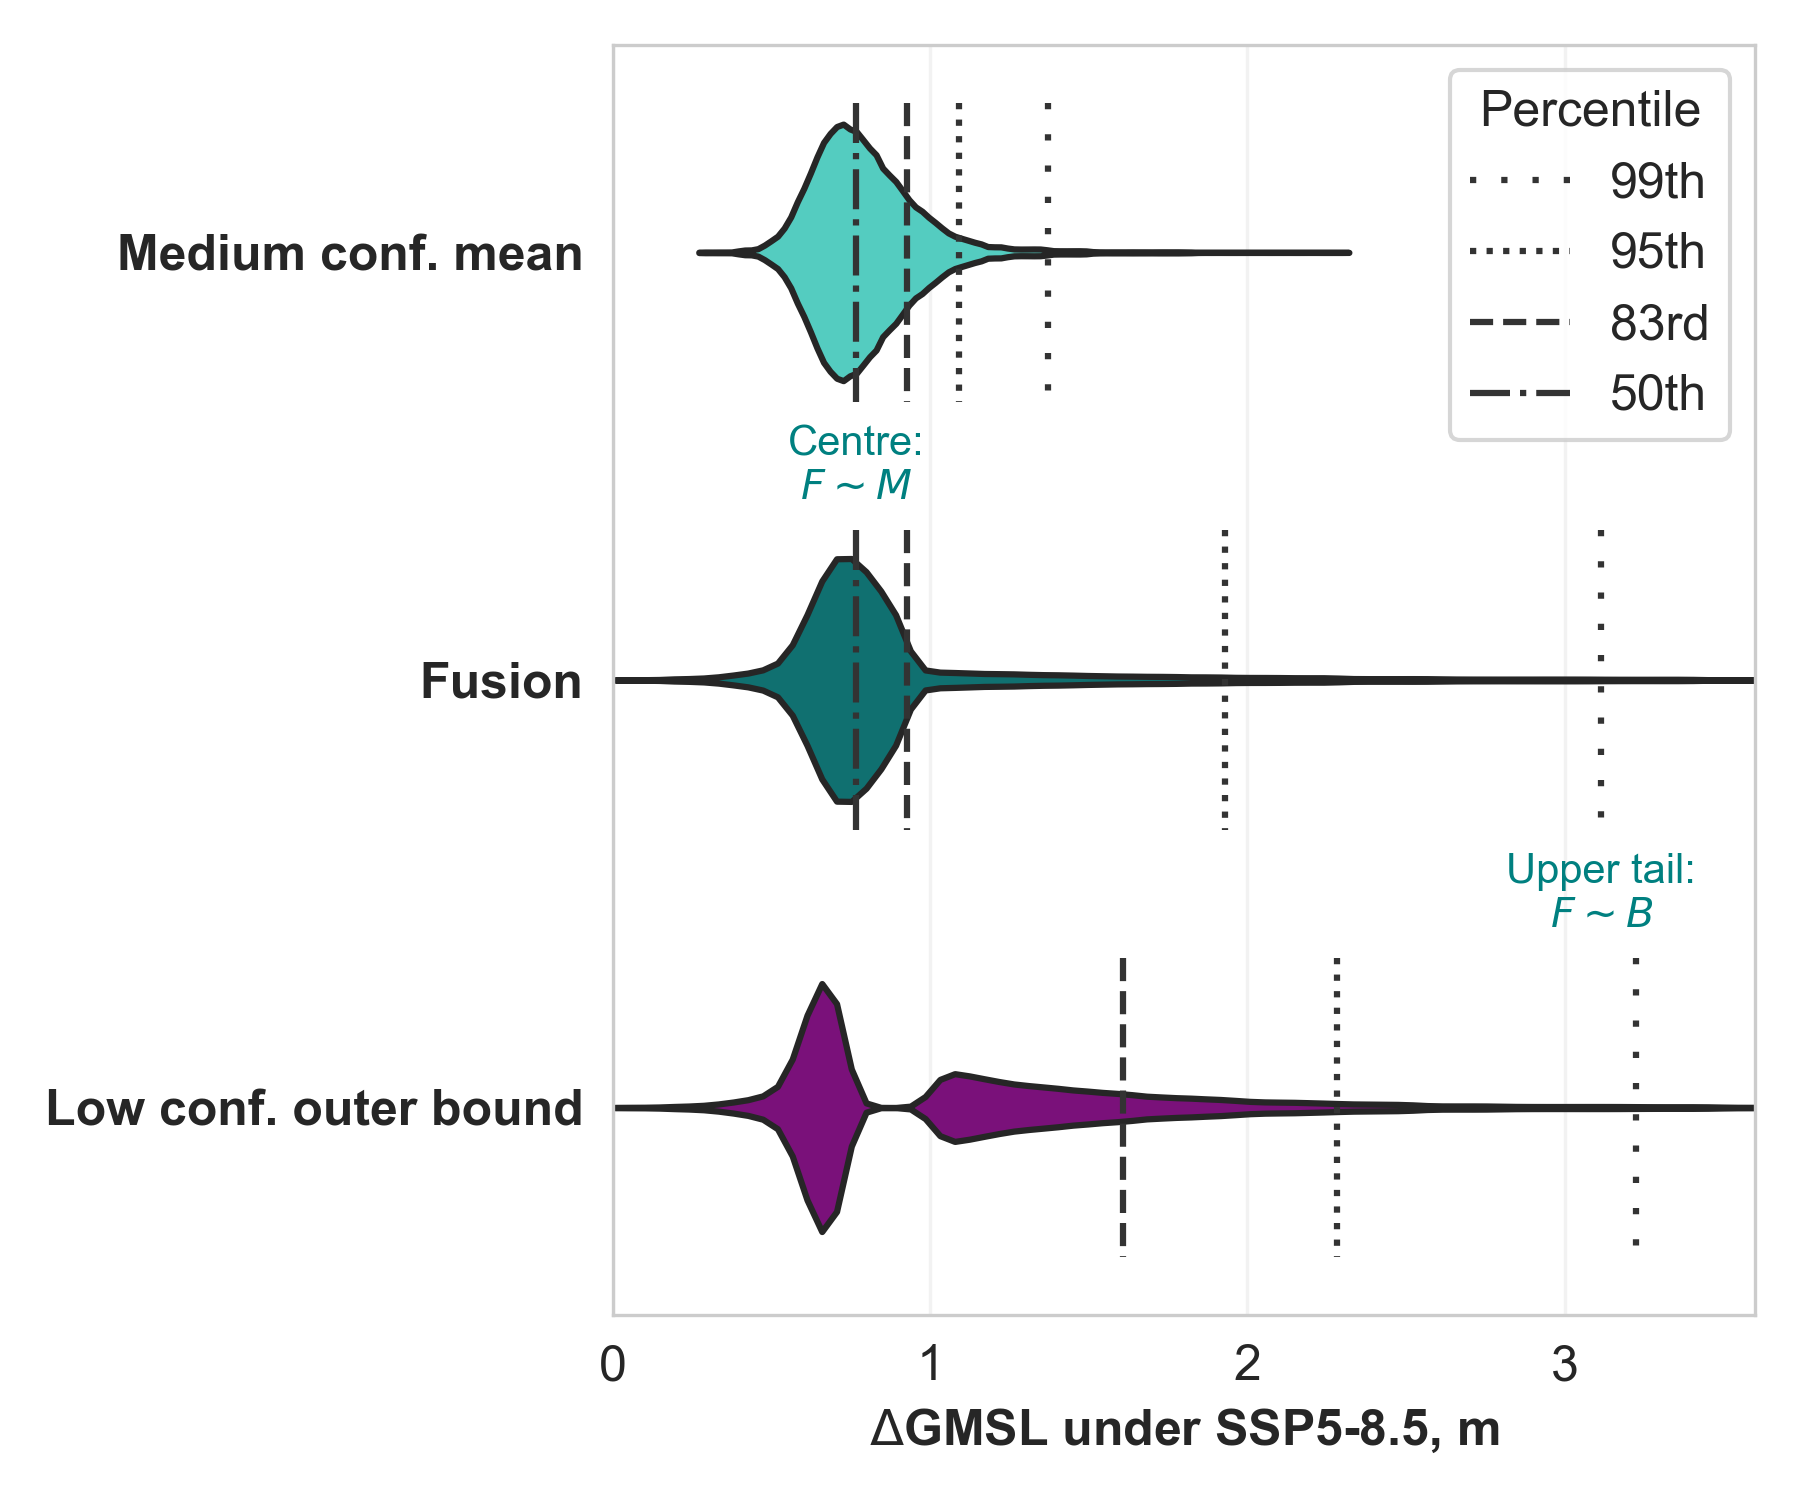
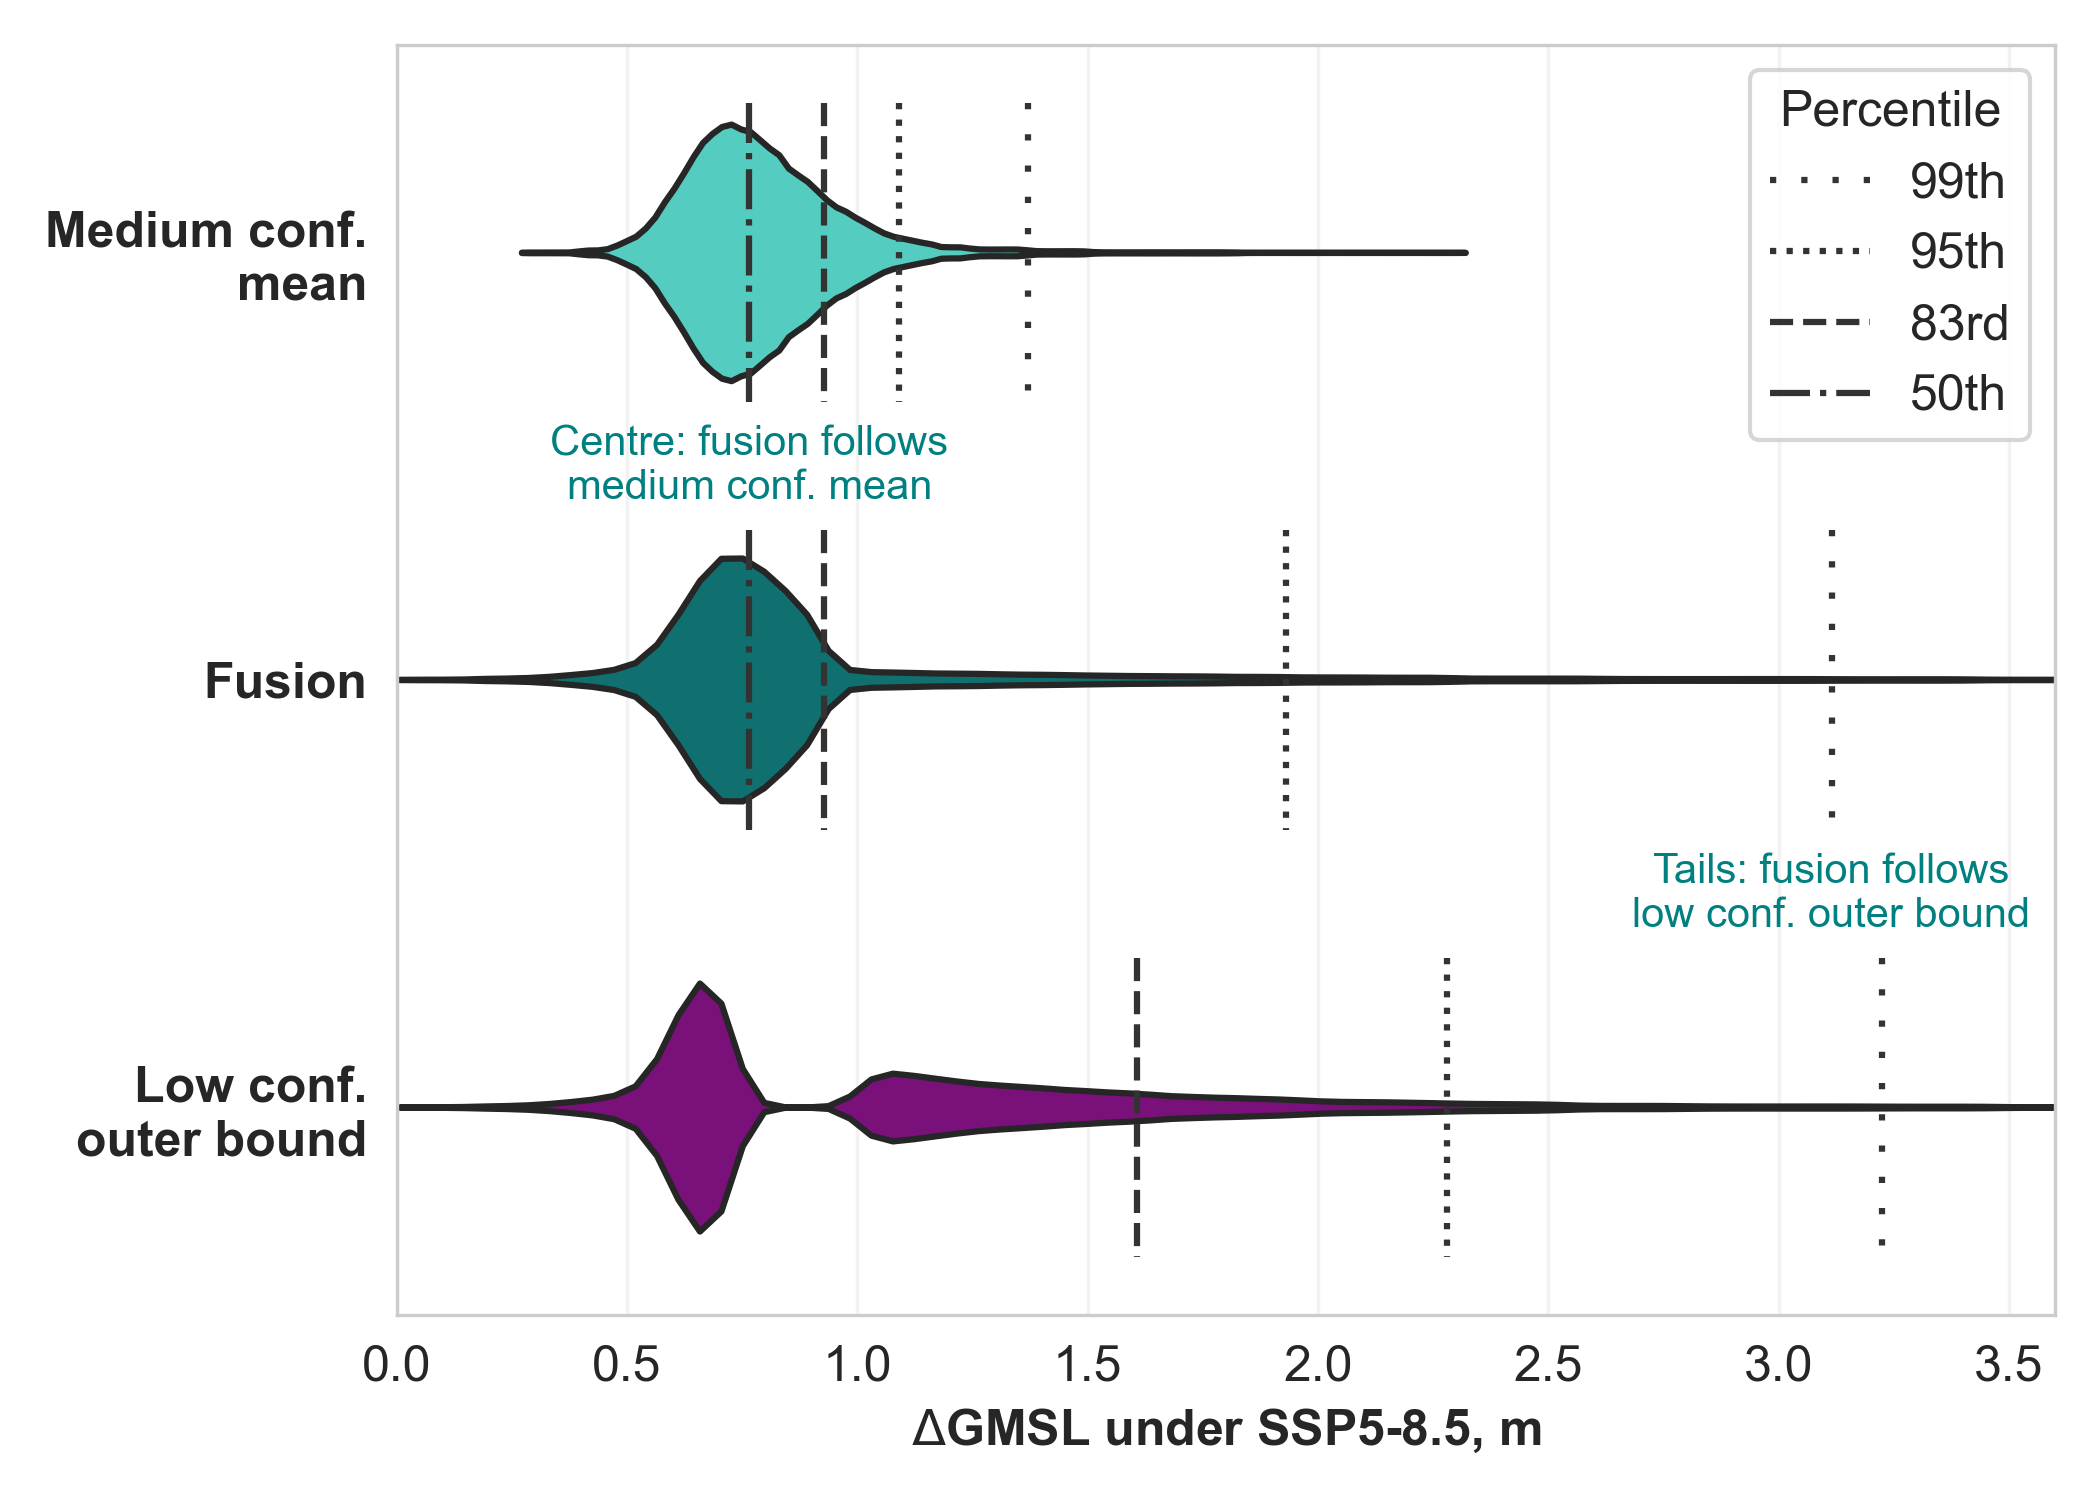
d23a.py plot_sl_violinplot(): modify annotations, labels, and figsize.

diff --git a/d23a.py b/d23a.py
@@ -578,7 +578,7 @@ def plot_sl_violinplot(workflows=('wf_2e', 'fusion_1e+2e', 'outer'),
     """
     # Create figure if ax is None
     if not ax:
-        fig, ax = plt.subplots(1, 1, figsize=(6, 5), constrained_layout=True)
+        fig, ax = plt.subplots(1, 1, figsize=(7, 5), constrained_layout=True)
     # Loop over workflows, sample marginal, and save to DataFrame
     samples_df = pd.DataFrame()  # DataFrame to hold samples from different marginals
     for workflow in workflows:
@@ -601,15 +601,15 @@ def plot_sl_violinplot(workflows=('wf_2e', 'fusion_1e+2e', 'outer'),
     if annotations:
         for p, y, text in zip(
                 [50, 99], [0.5, 1.5],
-                [f'Centre:\n$F \sim M$',
-                 f'Upper tail:\n$F \sim B$']
+                [f'Centre: fusion follows\nmedium conf. mean',
+                 f'Tails: fusion follows\nlow conf. outer bound']
                 ):
             qf_da = get_sl_qf(workflow=workflows[1], rate=rate, scenario=scenario, year=year, gauge=gauge)
             val = qf_da.sel(quantiles=p/100).data
             ax.annotate(text, [val, y], ha='center', va='center', color=WF_COLOR_DICT[workflows[1]])
     # Customise plot
     ax.legend(loc='upper right', title='Percentile', title_fontsize='large')
-    ax.set_yticklabels([WF_LABEL_DICT[workflow] for workflow in workflows])
+    ax.set_yticklabels(['conf.\n'.join(WF_LABEL_DICT[workflow].split('conf.')) for workflow in workflows])
     xlabel = SL_LABEL_DICT[(rate, bool(gauge))]
     if scenario == 'both':
         xlabel = xlabel.replace(',', ' across scenarios,')
